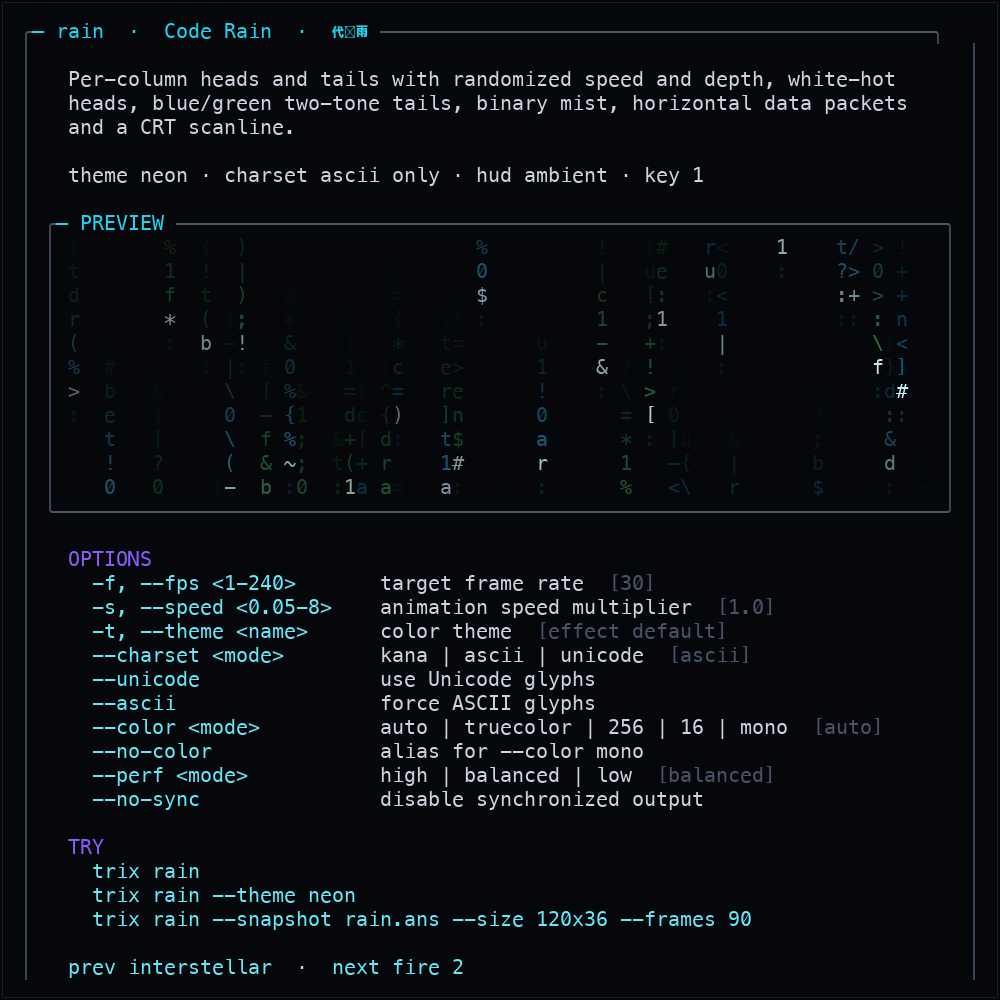
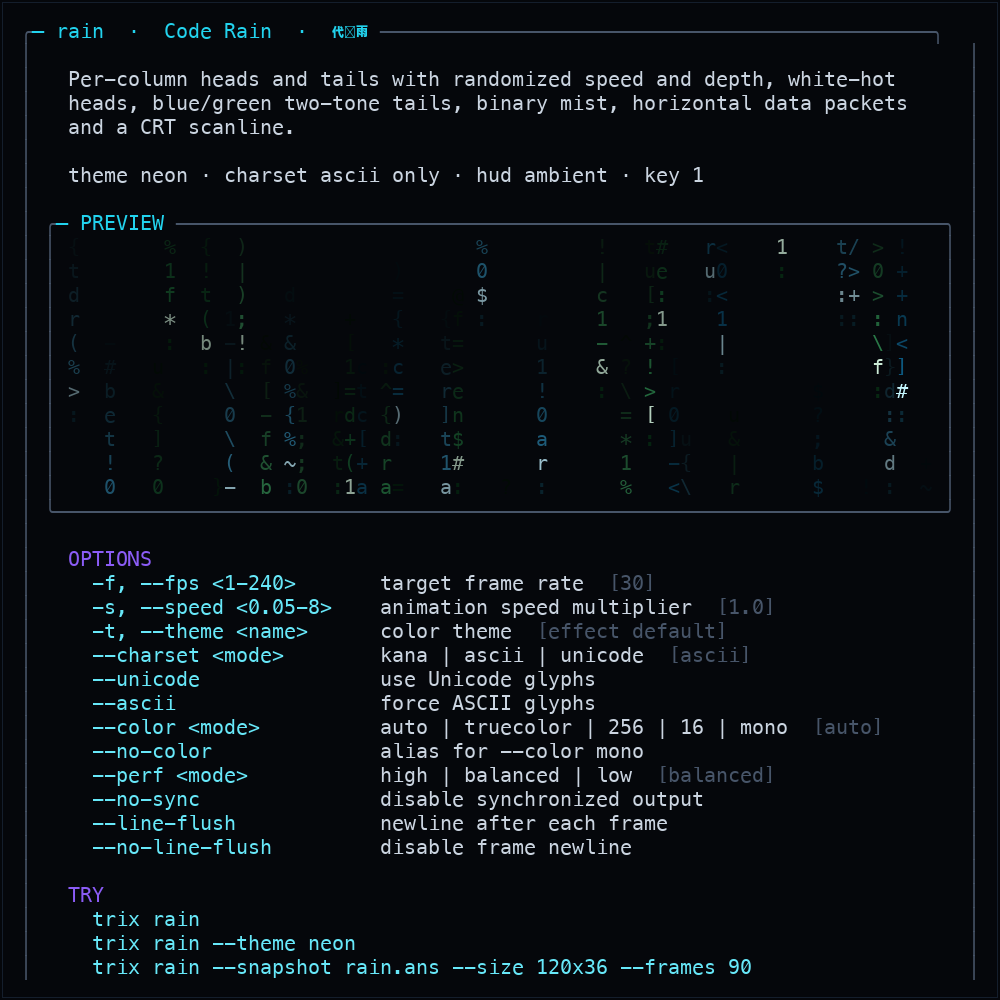
fix(render): break up the one line SSH clients see
A full-screen frame is a pure cursor-addressed stream with no newlines.
Line-oriented SSH clients, loggers and trigger engines can accumulate the
whole session as one enormous line and slow their input path down.  End
every non-empty frame with ESC[?6l ESC[H LF (home first, so it cannot
scroll), reset the cursor, and add --no-line-flush as an escape hatch.

This targets the case where a local terminal runs the same effect smoothly
but the SSH session does not.

diff --git a/src/canvas.rs b/src/canvas.rs
@@ -66,6 +66,15 @@ pub struct PresentOptions {
     pub erase_tail: bool,
     /// Avoid redundant cursor addressing.
     pub cursor_moves: bool,
+    /// Emit a newline after a non-empty frame (at the home position, before
+    /// the sync end marker).
+    ///
+    /// A full-screen animation has no line breaks of its own: the whole
+    /// session is one enormous line of cursor-addressed output.  Some SSH
+    /// clients and loggers process output line by line (triggers, logging,
+    /// prompt detection); a single growing line can make those paths very
+    /// slow.  One harmless newline per frame resets that line.
+    pub line_flush: bool,
 }
 
 impl Default for PresentOptions {
@@ -75,6 +84,7 @@ impl Default for PresentOptions {
             sync: false,
             erase_tail: true,
             cursor_moves: true,
+            line_flush: false,
         }
     }
 }
@@ -613,8 +623,17 @@ impl Canvas {
         if out.len() == body_start {
             // Nothing changed: skip the write entirely, sync markers included.
             out.clear();
-        } else if opts.sync {
-            out.extend_from_slice(b"\x1b[?2026l");
+        } else {
+            if opts.line_flush {
+                // Home first: LF at the top row moves down one row and can
+                // never scroll the screen.  Disabling origin mode keeps that
+                // true even if a previous program left DECOM set.
+                out.extend_from_slice(b"\x1b[?6l\x1b[H\n");
+                cursor = None;
+            }
+            if opts.sync {
+                out.extend_from_slice(b"\x1b[?2026l");
+            }
         }
 
         self.last_fg = last_fg;
@@ -853,6 +872,22 @@ mod tests {
     }
 
     #[test]
+    fn line_flush_emits_a_newline_after_content() {
+        let mut c = Canvas::new(4, 3);
+        c.set(0, 0, 'x', Rgb::WHITE);
+        let mut sink = Vec::new();
+        let opts = PresentOptions {
+            line_flush: true,
+            ..PresentOptions::default()
+        };
+        c.present_with(&mut sink, ColorMode::True, opts).unwrap();
+        let s = String::from_utf8_lossy(&sink);
+        assert!(s.contains("\x1b[H\n"), "{s:?}");
+        // The flush is cursor-only: the cell is still where it was.
+        assert_eq!(c.get(0, 0).unwrap().ch, 'x');
+    }
+
+    #[test]
     fn color_slack_is_a_hard_error_bound() {
         let mut c = Canvas::new(3, 1);
         let base = Rgb::new(100, 100, 100);
@@ -1002,6 +1037,11 @@ mod tests {
                 } else if bytes[i] == b'\r' {
                     self.cur.1 = 0;
                     i += 1;
+                } else if bytes[i] == b'\n' {
+                    // The encoder only flushes lines after homing, so this
+                    // never scrolls; keep the model simple.
+                    self.cur.0 = (self.cur.0 + 1).min(self.h - 1);
+                    i += 1;
                 } else {
                     let s = std::str::from_utf8(&bytes[i..]).ok();
                     if let Some(s) = s {
@@ -1084,6 +1124,7 @@ mod tests {
                     // and the conservative absolute-addressing path.
                     erase_tail: frame % 3 != 0,
                     cursor_moves: frame % 4 != 0,
+                    line_flush: frame % 5 == 0,
                 };
                 sink.clear();
                 c.present_with(&mut sink, ColorMode::True, opts).unwrap();

diff --git a/src/cli.rs b/src/cli.rs
@@ -124,6 +124,9 @@ pub struct Options {
     pub perf: PerfMode,
     /// Disable DECSET 2026 synchronized output.
     pub no_sync: bool,
+    /// Emit a newline after every non-empty frame so line-oriented SSH
+    /// clients/loggers do not accumulate one enormous line.
+    pub line_flush: bool,
     pub duration: Option<f64>,
     pub density: f32,
     pub spin: f32,
@@ -176,6 +179,7 @@ impl Default for Options {
             color: None,
             perf: PerfMode::Balanced,
             no_sync: false,
+            line_flush: true,
             duration: None,
             density: 1.0,
             spin: 0.5,
@@ -257,6 +261,8 @@ pub fn parse_args(args: &[String]) -> Result<Parsed, String> {
                 "no-hud" => opts.no_hud = true,
                 "no-color" => opts.color = Some(ColorMode::Mono),
                 "no-sync" | "no-synchronized" => opts.no_sync = true,
+                "line-flush" | "flush-lines" => opts.line_flush = true,
+                "no-line-flush" => opts.line_flush = false,
                 "perf" | "performance" => {
                     let v = take_value(args, &mut i, inline, "--perf")?;
                     opts.perf = PerfMode::parse(&v).ok_or_else(|| {
@@ -545,6 +551,8 @@ pub const PRIMARY_FLAGS: &[&str] = &[
     "--no-color",
     "--perf",
     "--no-sync",
+    "--line-flush",
+    "--no-line-flush",
     "--no-hud",
     "--no-alt",
     "--density",
@@ -867,6 +875,7 @@ mod tests {
         assert_eq!(o.perf.min_fps(30), 12);
         assert_eq!(o.perf.min_fps(8), 8);
         assert!(!o.no_sync);
+        assert!(o.line_flush, "line flushing is on by default");
 
         let Parsed::Run(o) = parse_args(&args("rain --perf low --no-sync")).unwrap() else {
             panic!()
@@ -877,6 +886,10 @@ mod tests {
         assert_eq!(o.perf.max_fps(15), 15);
         assert_eq!(o.perf.min_fps(o.perf.max_fps(30)), 10);
         assert!(o.no_sync);
+        let Parsed::Run(o) = parse_args(&args("rain --no-line-flush")).unwrap() else {
+            panic!()
+        };
+        assert!(!o.line_flush);
 
         assert!(parse_args(&args("rain --perf turbo")).is_err());
     }

diff --git a/src/help.rs b/src/help.rs
@@ -600,6 +600,8 @@ fn curated_options(style: &HelpStyle) -> Vec<String> {
                 "--no-color",
                 "--perf",
                 "--no-sync",
+                "--line-flush",
+                "--no-line-flush",
                 "--no-hud",
                 "--no-alt",
             ],
@@ -838,6 +840,8 @@ fn common_rows() -> &'static [(&'static str, &'static str, &'static str)] {
         ("--no-color", "alias for --color mono", ""),
         ("--perf <mode>", "high | balanced | low", "balanced"),
         ("--no-sync", "disable synchronized output", ""),
+        ("--line-flush", "newline after each frame", ""),
+        ("--no-line-flush", "disable frame newline", ""),
     ]
 }
 
@@ -1194,6 +1198,18 @@ const RENDER: &[OptRow] = &[
         flags: "--no-sync",
         arg: "",
         desc: "disable synchronized output (DECSET 2026)",
+        default: None,
+    },
+    OptRow {
+        flags: "--line-flush",
+        arg: "",
+        desc: "emit a newline after each frame (line-oriented SSH clients)",
+        default: Some("on"),
+    },
+    OptRow {
+        flags: "--no-line-flush",
+        arg: "",
+        desc: "do not emit the per-frame newline",
         default: None,
     },
     OptRow {
@@ -1718,6 +1734,8 @@ _trix() {{
     '--no-color[monochrome]' \
     '--perf[renderer profile]:mode:(high balanced low)' \
     '--no-sync[disable synchronized output]' \
+    '--line-flush[newline after each frame]' \
+    '--no-line-flush[disable frame newline]' \
     '--no-hud[hide the HUD]' \
     '--no-alt[do not use the alternate screen]' \
     '--ghost[monalisa: pure-ASCII ghost]' \

diff --git a/scripts/check_docs.py b/scripts/check_docs.py
@@ -17,7 +17,7 @@ ROOT = Path(__file__).resolve().parent.parent
 PRIMARY_FLAGS = [
     "--effect", "--playlist", "--switch", "--transition", "--transition-secs",
     "--no-fade", "--fps", "--speed", "--chase-speed", "--theme", "--charset",
-    "--unicode", "--ascii", "--color", "--no-color", "--perf", "--no-sync",
+    "--unicode", "--ascii", "--color", "--no-color", "--perf", "--no-sync", "--line-flush", "--no-line-flush",
     "--no-hud", "--no-alt",
     "--density", "--spin", "--twinkle", "--meteors", "--beam-speed",
     "--beam-motion", "--beam-jump", "--trail", "--seed-count", "--seed-speed", "--street",

diff --git a/src/app.rs b/src/app.rs
@@ -22,6 +22,7 @@ fn present_options(opts: &Options) -> PresentOptions {
     PresentOptions {
         color_slack: opts.perf.color_slack(),
         sync: !opts.no_sync,
+        line_flush: opts.line_flush,
         ..PresentOptions::default()
     }
 }

diff --git a/README.md b/README.md
@@ -25,7 +25,7 @@
 curl -fsSL https://raw.githubusercontent.com/Doswind/trix-effects/master/install.sh | sh
 
 # Beta: remote/SSH renderer test build
-curl -fsSL https://raw.githubusercontent.com/Doswind/trix-effects/master/install.sh | TRIX_VERSION=0.11.1-beta.3 sh
+curl -fsSL https://raw.githubusercontent.com/Doswind/trix-effects/master/install.sh | TRIX_VERSION=0.11.1-beta.4 sh
 
 # Rust toolchain, straight from git
 cargo install --git https://github.com/Doswind/trix-effects --locked
@@ -322,6 +322,8 @@ trix <effect> [options]
       --no-color          alias for --color mono
       --perf <mode>       high | balanced | low               [default: balanced]
       --no-sync           disable synchronized output (DEC 2026)
+      --line-flush        newline after each frame           [default: on]
+      --no-line-flush     disable the per-frame newline
       --density <f>       beams/fireworks/galaxy/traffic density [default: 1.0]
       --spin <f>          black hole rotation speed        [default: 0.5]
       --twinkle <f>       galaxy twinkle rate              [default: 1.0]
@@ -458,11 +460,13 @@ Environment: Apple Silicon (ARM64), macOS, Rust 1.96.1, `--release` (LTO + `code
 
 ### Remote / SSH sessions
 
-This work ships in the **0.11.1-beta.3** pre-release; `v0.11.0` does not include `--perf` or the new encoder.
+This work ships in the **0.11.1-beta.4** pre-release; `v0.11.0` does not include `--perf` or the new encoder.
 
 The server renders a frame in well under a millisecond, so lag in a remote session is almost always **terminal traffic**, not CPU. A full-screen truecolor frame is 40–120 KiB; at 30 FPS that is 1.2–3.5 MiB/s before SSH overhead. When the client cannot parse that fast, the SSH and pty buffers fill up and the terminal starts showing frames that are seconds old — which feels like input lag, not just a lower frame rate.
 
 If keystrokes arrive seconds late, the terminal or SSH client is behind, not the scene CPU: its display queue is still draining old frames. Lower the amount of new output and let it catch up. The defaults already aim for headroom, but the `i` panel's **write** time is the direct signal: a large write time means the pty is blocked. If keys still lag, try `--perf low --color 256 --fps 12`, `--transition none`, `--no-sync`, or a smaller terminal window.
+
+A full-screen frame has no newlines of its own: it is one long cursor-addressed stream. Some SSH clients, loggers and trigger engines process output line by line, so that single line grows without bound and their input path slows down. Interactive frames now append a harmless newline after homing (`ESC[?6l ESC[H LF`); `--no-line-flush` turns it off. If the same effect is fast in a local terminal but slow over SSH, this is the first thing to test.
 
 The defaults fix the common case without changing the artwork:
 
@@ -470,6 +474,7 @@ The defaults fix the common case without changing the artwork:
 - **`--perf low`**: 6/255 colour drift, a **20 FPS cap**, a 10 FPS floor and transitions shortened to 0.2 s for very slow links or software-rendered clients.
 - **`--color 256`**: roughly halves the remaining SGR bytes. These scenes are ASCII art, so the palette approximation is hard to see; `--color 16` is the last resort.
 - **`--no-sync`**: turns off synchronized output if a particular terminal mishandles DEC 2026.
+- **`--line-flush`** (default on) / **`--no-line-flush`**: the per-frame newline described above; disable it only if a client shows an extra blank line.
 - **`--transition none`**: removes the 0.6 s blend that renders two scenes at once; useful on very weak links.
 - `--fps` remains an upper bound; the governor never exceeds it.
 
@@ -550,12 +555,12 @@ cargo clippy --all-targets
 cargo fmt --check
 ```
 
-There are currently **261** unit / integration tests. See `.github/workflows/ci.yml` for the Linux/macOS CI matrix.
+There are currently **262** unit / integration tests. See `.github/workflows/ci.yml` for the Linux/macOS CI matrix.
 
 ## Versions and rollback
 
 - **Current version: 0.11.0** (`trix --version`), tag **`v0.11.0`** (2026-10-22).
-- **Beta: 0.11.1-beta.3** (tag **`v0.11.1-beta.3`**, pre-release): remote/SSH renderer overhaul, `--perf high|balanced|low` and `--no-sync`. Install with `TRIX_VERSION=0.11.1-beta.3`.
+- **Beta: 0.11.1-beta.4** (tag **`v0.11.1-beta.4`**, pre-release): remote/SSH renderer overhaul, `--perf high|balanced|low`, `--no-sync` and `--line-flush`. Install with `TRIX_VERSION=0.11.1-beta.4`.
 - **0.11.0** adds four generative scenes: `volcano`, `launch`, `plasma` and `interstellar`.
 - **0.10.0** adds `dsh` (DeepSeek Harness) and `vibe` (Vibe Coding), plus the `--trail` knob.
 - **0.9.1** renames the package/repository to `trix-effects` (command stays `trix`), hardens `install.sh`, adds cache-safe ASCII previews and contributor/launch docs.

diff --git a/README.zh-CN.md b/README.zh-CN.md
@@ -25,7 +25,7 @@
 curl -fsSL https://raw.githubusercontent.com/Doswind/trix-effects/master/install.sh | sh
 
 # 测试版：远程 / SSH 渲染重构
-curl -fsSL https://raw.githubusercontent.com/Doswind/trix-effects/master/install.sh | TRIX_VERSION=0.11.1-beta.3 sh
+curl -fsSL https://raw.githubusercontent.com/Doswind/trix-effects/master/install.sh | TRIX_VERSION=0.11.1-beta.4 sh
 
 # 有 Rust 工具链，直接从 git 安装
 cargo install --git https://github.com/Doswind/trix-effects --locked
@@ -322,6 +322,8 @@ trix <effect> [options]
       --no-color          --color mono 的别名
       --perf <mode>       high | balanced | low               [默认: balanced]
       --no-sync           关闭同步输出（DEC 2026）
+      --line-flush        每帧后补一个换行             [默认: 开]
+      --no-line-flush     关闭每帧换行
       --density <f>       beams/fireworks/galaxy/traffic 密度 [默认: 1.0]
       --spin <f>          黑洞旋转速度                      [默认: 0.5]
       --twinkle <f>       银河闪烁频率                      [默认: 1.0]
@@ -458,11 +460,13 @@ trix <effect> [options]
 
 ### 远程 / SSH 会话
 
-这部分包含在 **0.11.1-beta.3** 测试版中；`v0.11.0` 没有 `--perf` 和新编码器。
+这部分包含在 **0.11.1-beta.4** 测试版中；`v0.11.0` 没有 `--perf` 和新编码器。
 
 服务端渲染一帧远低于 1 ms，所以远程卡顿几乎总是**终端流量**问题，而不是 CPU。一帧全屏 truecolor 有 40–120 KiB，30 FPS 就是 1.2–3.5 MiB/s（还没算 SSH 开销）。终端解析不过来时，SSH 和 pty 缓冲区会堆积，用户看到的是几秒前的旧帧——感觉像输入延迟，而不只是帧率低。
 
 如果按键要过几秒才有反应，说明终端或 SSH 客户端已经落后，积压的旧帧还在排队，而不是场景 CPU 的问题。减少新输出、让它排空即可。`i` 面板里的 **write** 时间就是直接信号：write 很大说明 pty 被阻塞。如果仍然卡，可以试 `--perf low --color 256 --fps 12`、`--transition none`、`--no-sync`，或者把终端窗口调小。
+
+全屏帧本身没有任何换行：它是一长串光标定位输出。有些 SSH 客户端、日志器或 trigger 引擎按行处理输出，整个会话就变成一条不断变长的“行”，输入处理会被拖死。现在每个非空帧在回到 home 后追加一个无害的换行（`ESC[?6l ESC[H LF`），`--no-line-flush` 可关闭。如果同一个特效本地终端很快、走 SSH 很慢，这是第一个要试的开关。
 
 默认设置在不改变画面设计的前提下解决了常见情况：
 
@@ -470,6 +474,7 @@ trix <effect> [options]
 - **`--perf low`**：每通道 6/255 颜色偏差、**20 FPS 上限**、10 FPS 下限，过渡缩短到 0.2 秒，适合很慢的链路或软件渲染客户端。
 - **`--color 256`**：其余 SGR 字节大约减半。这些特效本身就是 ASCII 艺术，调色板近似很难看出来；`--color 16` 是最后手段。
 - **`--no-sync`**：如果某个终端对 DEC 2026 处理有问题，可以关掉同步输出。
+- **`--line-flush`**（默认开）/ **`--no-line-flush`**：上面说的每帧换行；只有客户端多出空行时才需要关闭。
 - **`--transition none`**：去掉同时渲染两个场景的 0.6 秒过渡，极弱链路下可进一步减少峰值流量。
 - `--fps` 仍是上限，调节器不会超过它。
 
@@ -550,12 +555,12 @@ cargo clippy --all-targets
 cargo fmt --check
 ```
 
-当前 **261** 个单元/集成测试。CI 矩阵见 `.github/workflows/ci.yml`。
+当前 **262** 个单元/集成测试。CI 矩阵见 `.github/workflows/ci.yml`。
 
 ## 版本与回退
 
 - **当前版本：0.11.0**（`trix --version`），tag **`v0.11.0`**（2026-10-22）。
-- **测试版：0.11.1-beta.3**（tag **`v0.11.1-beta.3`**，pre-release）：远程/SSH 渲染重构、`--perf high|balanced|low` 与 `--no-sync`。安装时设置 `TRIX_VERSION=0.11.1-beta.3`。
+- **测试版：0.11.1-beta.4**（tag **`v0.11.1-beta.4`**，pre-release）：远程/SSH 渲染重构、`--perf high|balanced|low`、`--no-sync` 与 `--line-flush`。安装时设置 `TRIX_VERSION=0.11.1-beta.4`。
 - **0.11.0**：新增四个生成式场景：`volcano`、`launch`、`plasma`、`interstellar`。
 - **0.10.0**：新增 `dsh`（深度求索 / DeepSeek Harness）与 `vibe`（氛围编程 / Vibe Coding），以及 `--trail` 参数。
 - **0.9.1**：包名/仓库改为 `trix-effects`（命令仍是 `trix`），加固 `install.sh`，新增缓存安全的 ASCII 预览和贡献/发布文档。

diff --git a/CHANGELOG.zh-CN.md b/CHANGELOG.zh-CN.md
@@ -2,6 +2,10 @@
 
 [English](CHANGELOG.md) | **简体中文**
 
+## 0.11.1-beta.4 — 2026-10-23
+
+- **面向按行处理输出的 SSH 客户端**：全屏帧本身是一长串光标定位输出，没有任何换行。有些 SSH 客户端、日志器或 trigger 引擎按行处理输出，整个会话就变成一条不断变长的“行”，输入处理会被拖死。现在每个非空帧在回到 home 后追加 `ESC[?6l ESC[H LF`（先 home，所以永远不会滚屏），并重置编码器光标；`--no-line-flush` 可关闭。这针对的正是 Royal TSX 里“本地 Custom Terminal 很快、同样特效走 SSH 很慢”的情况。测试增至 262。
+
 ## 0.11.1-beta.3 — 2026-10-22
 
 - `0.11.1-beta.2` 的低延迟修正：帧率调节器现在把“一次写入占用帧预算 30%”（原来是 75%）视为管道已经饱和，因此 30 fps 下 14 ms 的写入会先降到 24、再降到 19 fps，而不是继续让 SSH/TCP 队列堆积。`--perf low` 把帧率上限设为 20 fps，并把过渡缩短到 0.2 秒；`i` 面板分别显示总耗时和写入耗时。安装时设置 `TRIX_VERSION=0.11.1-beta.3`；测试增至 261。

diff --git a/CHANGELOG.md b/CHANGELOG.md
@@ -2,6 +2,10 @@
 
 **English** | [简体中文](CHANGELOG.zh-CN.md)
 
+## 0.11.1-beta.4 — 2026-10-23
+
+- **Line-oriented SSH client fix**: a full-screen frame is one long cursor-addressed stream with no newlines. Some SSH clients, loggers and trigger engines process output line by line, so the whole session becomes a single ever-growing line and their input handling can stall. Every non-empty frame now ends with `ESC[?6l ESC[H LF` after homing (so it can never scroll) and resets the encoder's cursor; `--no-line-flush` disables it. This targets the Royal TSX case where a local Custom Terminal is fast but the same effect over SSH is slow. Tests grew to 262.
+
 ## 0.11.1-beta.3 — 2026-10-22
 
 - Lower-latency follow-up to `0.11.1-beta.2`: the governor now treats a write that uses 30% of the frame budget (was 75%) as a saturated pipe, so a 14 ms write at 30 fps steps down to 24 and then 19 fps instead of letting the SSH/TCP queue grow. `--perf low` caps the rate at 20 fps and shortens transitions to 0.2 s; the `i` panel now reports total and write time separately. Install with `TRIX_VERSION=0.11.1-beta.3`; tests grew to 261.
